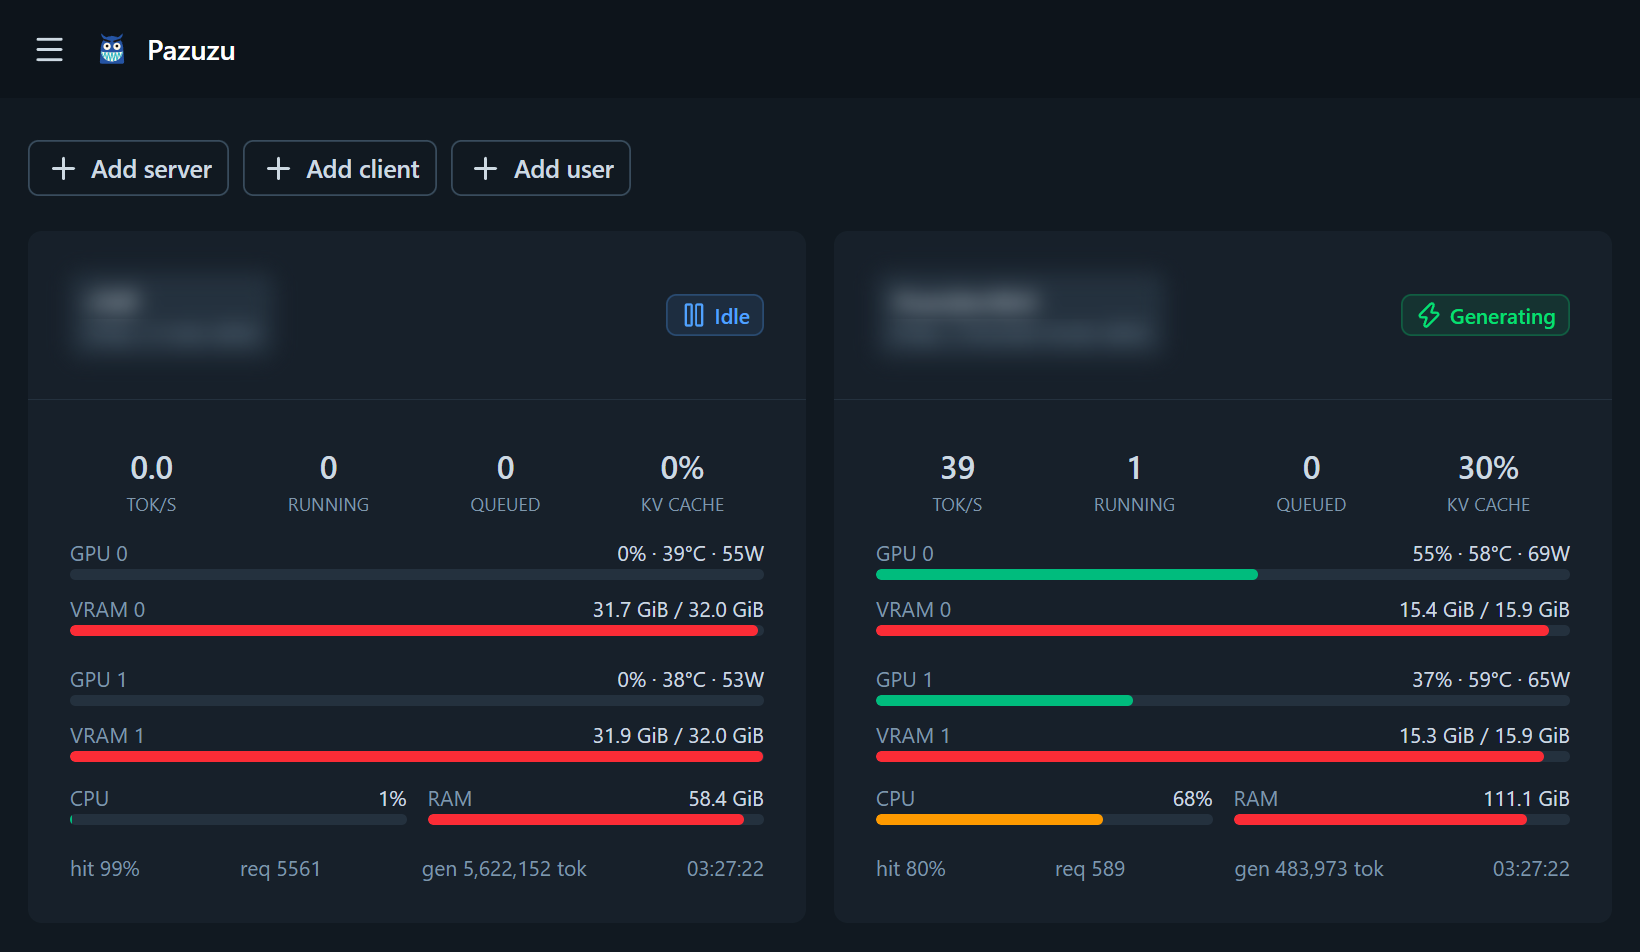
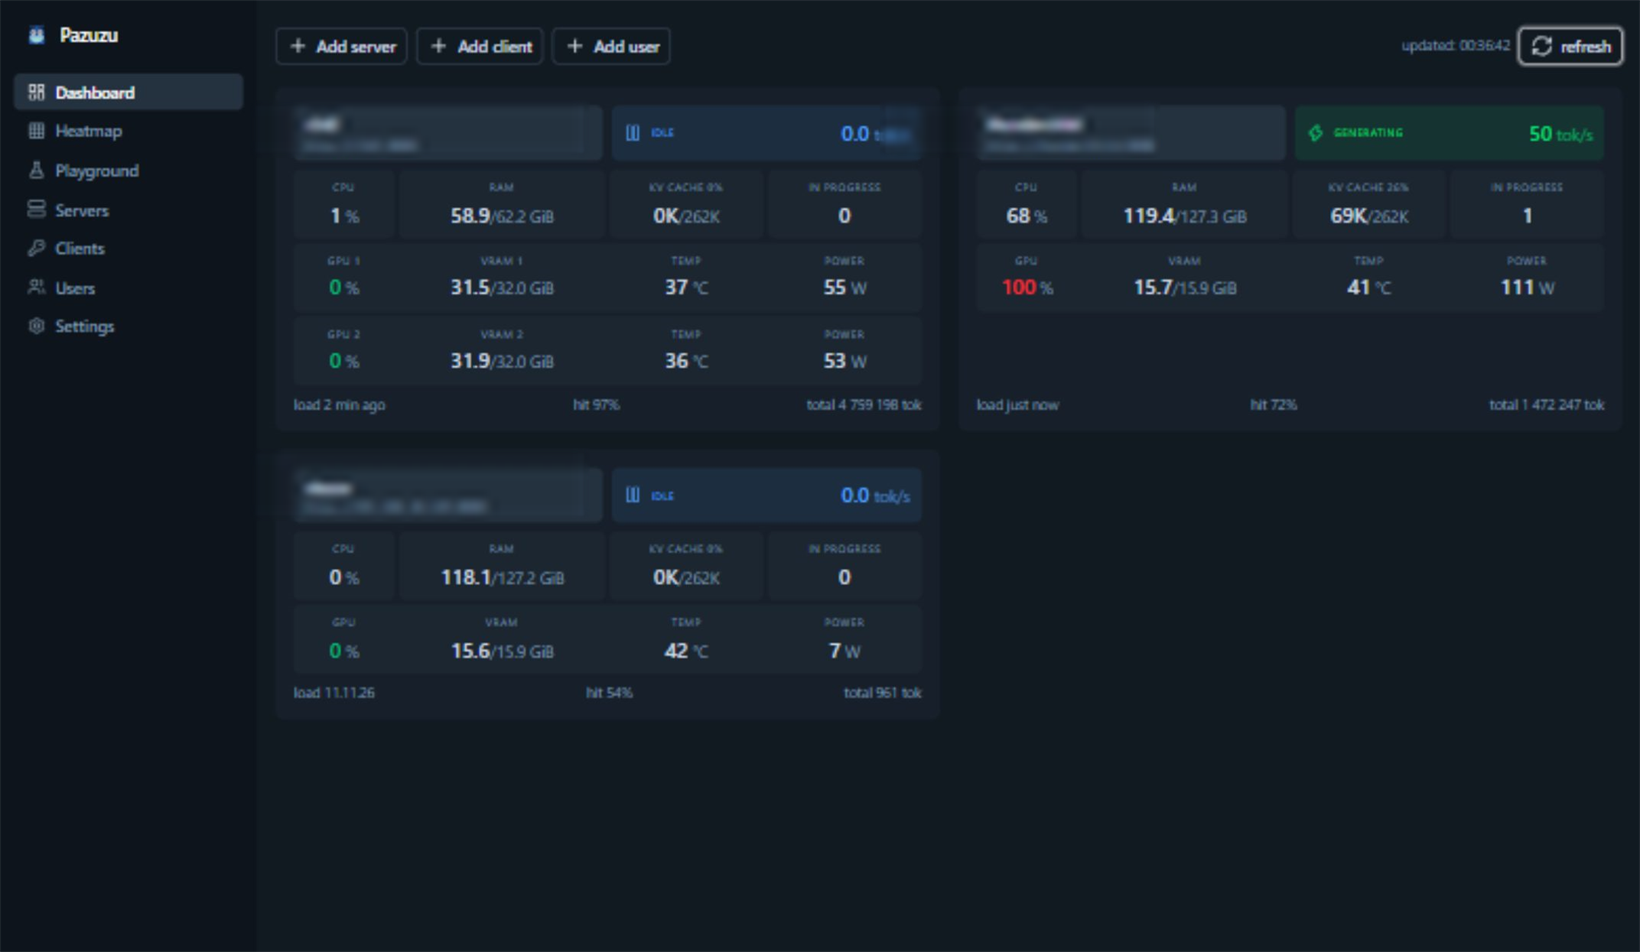
Document Playground reasoning options and refresh dashboard screenshots

diff --git a/docs/README.ru.md b/docs/README.ru.md
@@ -34,11 +34,14 @@ Web-мониторинг движков инференса **[Strata](https://gi
   в браузере (cookie).
 - **Песочница** — отправить один промпт сразу нескольким движкам и сравнить
   их ответы и скорость: живой текст бок о бок, TTFT / всего / ток/с на каждый
-  забег, N повторов на движок и сводка с медианами. Запросы идут напрямую в
-  `/v1/chat/completions` с ключом API сервера — мимо шлюза, его очередей и
-  допуска. Забег продолжает идти, пока вы листаете другие страницы, а форма,
-  последний батч и история запросов хранятся в браузере (localStorage) —
-  перезагрузка ничего не теряет.
+  забег, N повторов на движок и сводка с медианами. Модели с размышлениями
+  стримят свои мысли в отдельную панель «Размышления» — видно, на что уходит
+  долгий TTFT, — а селектор «Уровень размышлений» (Авто / Выкл / Низкий /
+  Средний / Высокий) задаёт openai-совместимый `reasoning_effort`. Запросы
+  идут напрямую в `/v1/chat/completions` с ключом API сервера — мимо шлюза,
+  его очередей и допуска. Забег продолжает идти, пока вы листаете другие
+  страницы, а форма, последний батч и история запросов хранятся в браузере
+  (localStorage) — перезагрузка ничего не теряет.
 - **Настройки** — разбиты на вкладки (любая открывается ссылкой вида `?tab=`):
   **Личное** (оформление, язык, пароль, просмотр в роли), **Сбор данных**
   (интервал поллера и интервал роллапа — по умолчанию 30 с — и глубина

diff --git a/README.md b/README.md
@@ -34,11 +34,15 @@ that load-balances application calls across all your engines.
   per browser (cookie).
 - **Playground** — send one prompt to several engines at once and compare
   their answers and speed: live streamed text side by side, TTFT / total /
-  tok/s per run, N repeat runs per engine and a median summary. Requests go
-  straight to `/v1/chat/completions` with the server's API key — past the
-  gateway, its queues and its admission control. A batch keeps streaming
-  while you browse other pages, and the form, the last batch and a request
-  history live in the browser (localStorage), so a reload loses nothing.
+  tok/s per run, N repeat runs per engine and a median summary. Reasoning
+  models stream their thinking into a separate "Thoughts" panel — you can
+  watch what a long TTFT spends time on — and the Reasoning effort selector
+  (Auto / Off / Low / Medium / High) sets the OpenAI-style
+  `reasoning_effort`. Requests go straight to `/v1/chat/completions` with
+  the server's API key — past the gateway, its queues and its admission
+  control. A batch keeps streaming while you browse other pages, and the
+  form, the last batch and a request history live in the browser
+  (localStorage), so a reload loses nothing.
 - **Settings** — split into tabs (each linkable directly via `?tab=`):
   **Personal** (appearance, language, password, view-as), **Data collection** (poller
   and rollup intervals — 30 s by default — plus hourly retention, all applied

diff --git a/docs/README.zh.md b/docs/README.zh.md
@@ -31,9 +31,11 @@
   tok/s、队列、显存 %、功耗、命中率等）。时间范围和指标会在浏览器中记住（cookie）。
 - **试验场** — 把一个提示词同时发给多个引擎，对比回答和速度：
   并排实时输出、每轮 TTFT / 总时长 / tok/s、每个引擎 N 次重复，
-  外加中位数汇总。请求带着服务器 API 密钥直接发往 `/v1/chat/completions`——
-  不经过网关及其队列与准入控制。切换页面时跑批照常继续，表单、最近一次
-  跑批和提示词历史都保存在浏览器里（localStorage），刷新不丢失。
+  外加中位数汇总。推理模型的思考过程会单独流式显示在「思考过程」面板里——
+  长时间 TTFT 忙在什么上一目了然；「推理强度」选择器（自动 / 关闭 / 低 / 中 / 高）
+  按 OpenAI 风格设置 `reasoning_effort`。请求带着服务器 API 密钥直接发往
+  `/v1/chat/completions`——不经过网关及其队列与准入控制。切换页面时跑批照常继续，
+  表单、最近一次跑批和提示词历史都保存在浏览器里（localStorage），刷新不丢失。
 - **设置** — 分为多个标签页（任意一页都可用 `?tab=` 链接直接打开）：
   **个人**（外观、语言、密码、角色预览）、**数据采集**（轮询间隔和汇总间隔
   — 默认 30 秒 — 以及小时聚合的保留深度，修改后立即生效；
